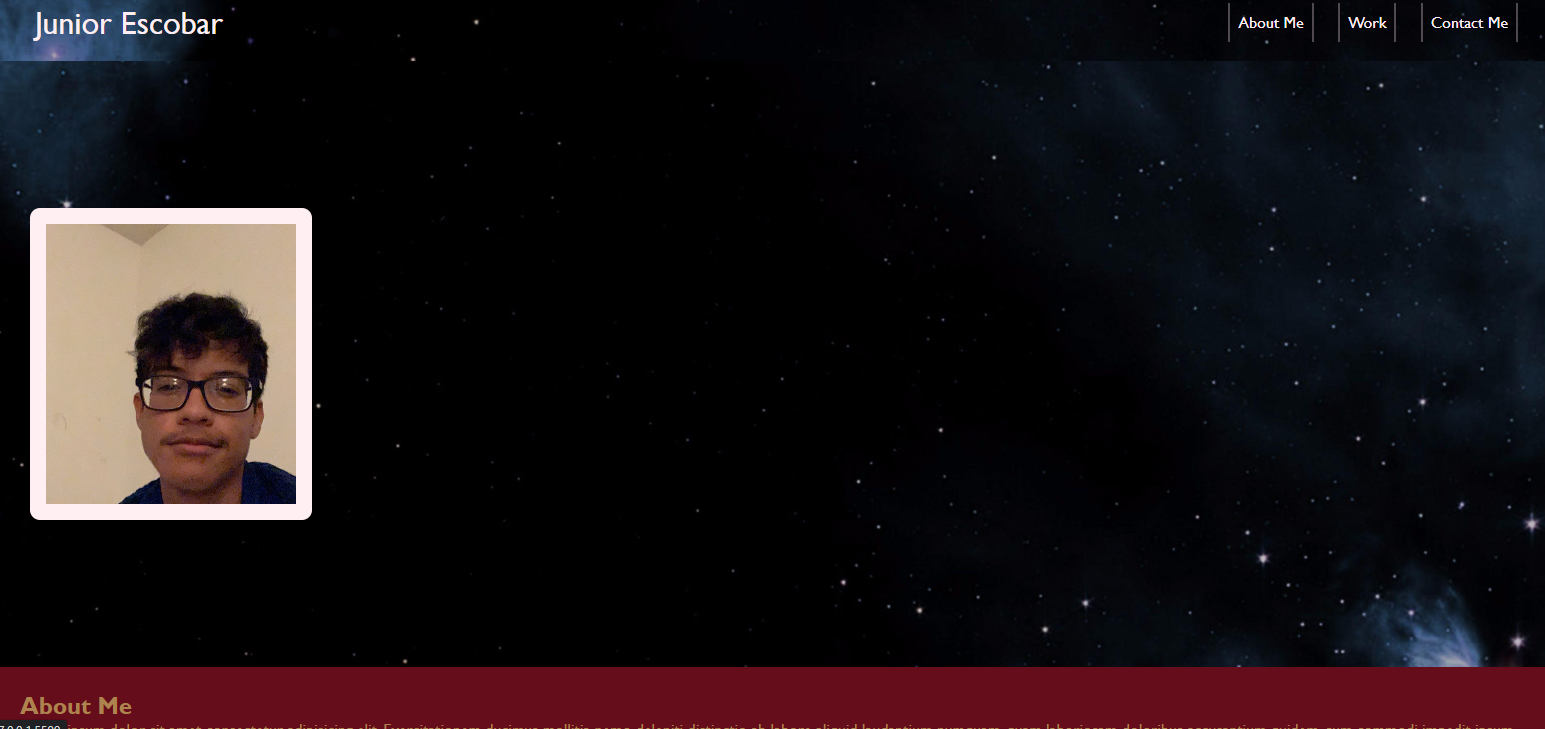
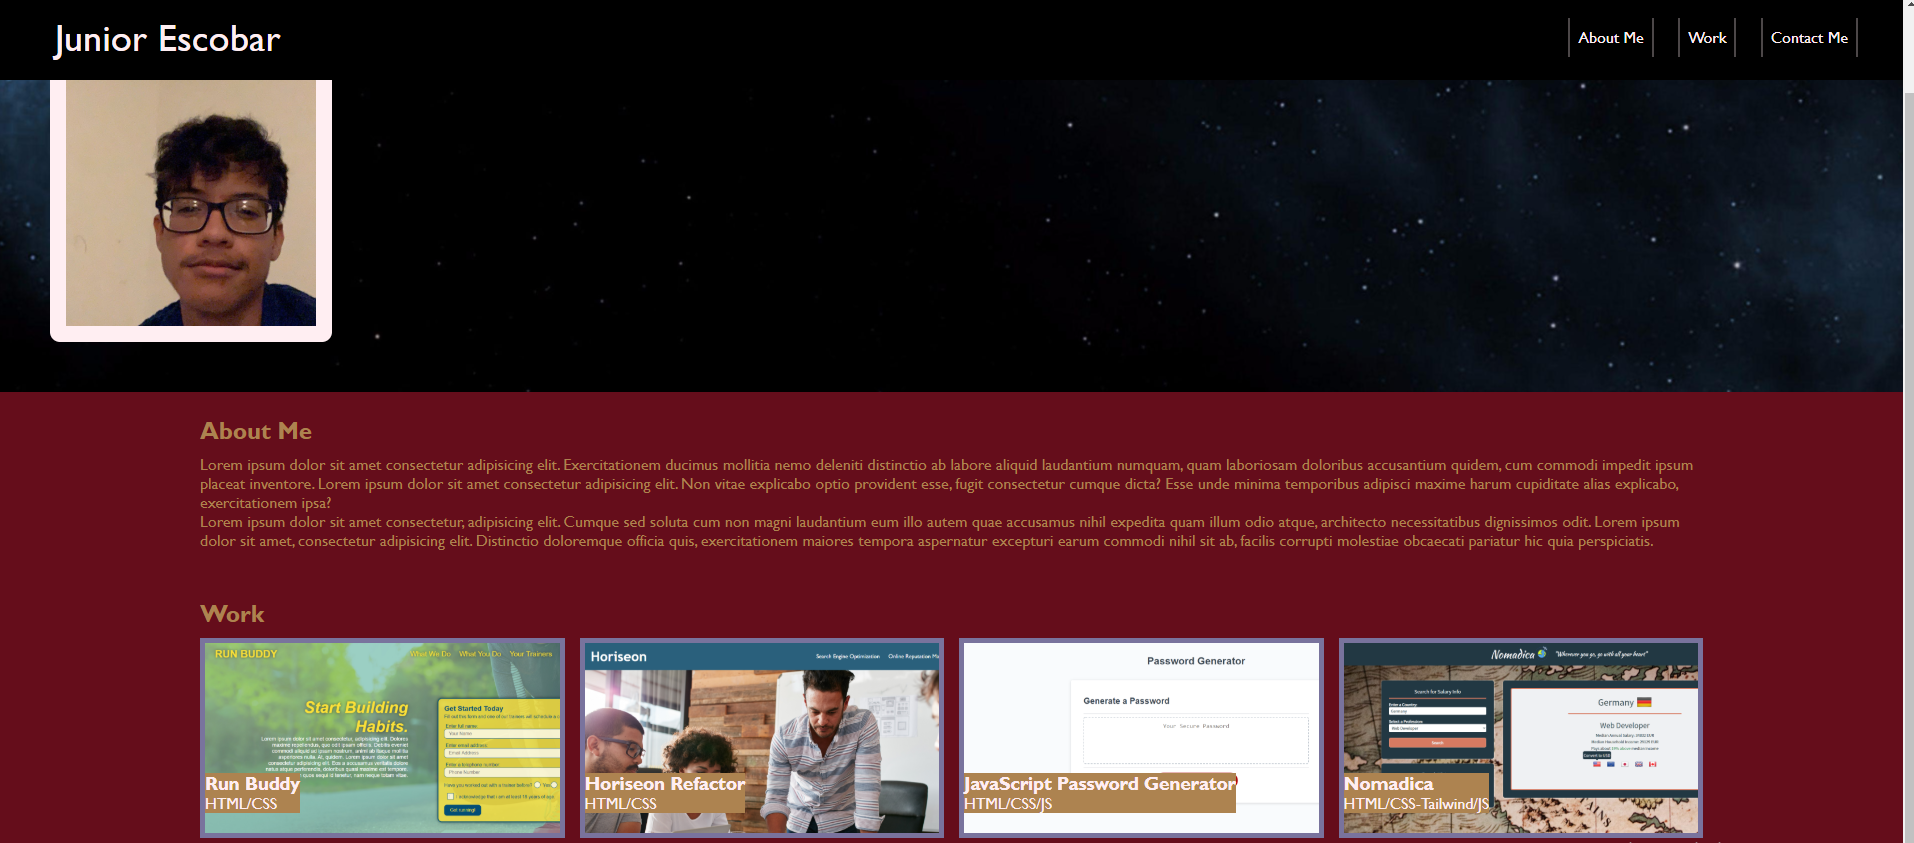
updated the site and added the project 1 link inside

diff --git a/assets/css/style.css b/assets/css/style.css
@@ -18,7 +18,7 @@ header {
     flex-wrap: wrap;
     justify-content: space-between;
     align-items: center;
-    background-image: url("../images/hero-bg.jpg");
+    background-color: var(--black);
     background-size: cover;
     background-attachment: fixed;
     padding: 20px 35px;
@@ -33,6 +33,10 @@ header h1 {
     font-weight: lighter;
     color: var(--light);
     margin: 0;
+}
+
+h2 {
+    margin-bottom: 10px;
 }
 
 nav.select a::before, nav.select a::after {
@@ -69,14 +73,14 @@ header a {
 
 .hero {
     background-image: url("../images/hero-bg.jpg");
-    background-size: cover;
+    background-size: 100vw;
     background-attachment: fixed;
     background-position: 80%;
     display: flex;
     justify-content: flex-start;
+    background-repeat: no-repeat;
     flex-wrap: wrap;
     align-items: center;
-    min-height: 80vh;
     padding: 50px;
 }
 
@@ -97,11 +101,15 @@ body {
 
 .page-section {
     background-color: var(--persian-plum);
-    padding: 25px 40px;
+    padding: 25px 200px;
     display: flex;
     flex-wrap: wrap;
     align-items: stretch;
     justify-content: space-between;
+}
+
+#work, #contact {
+    display: block;
 }
 
 .grid-container {
@@ -109,7 +117,7 @@ body {
     column-gap: 15px;
     row-gap: 15px;
     grid-auto-flow: column;
-    grid-template-columns: repeat(10, 1fr);
+    grid-template-columns: repeat(12, 1fr);
     grid-auto-rows: minmax(200px, 1fr);
 }
 
@@ -119,19 +127,16 @@ body {
     padding: 0 0 20px 0;
     text-decoration: none;
     border: 5px solid var(--soft);
-    grid-column: span 4;
     background-color: var(--black);
     color: var(--light);
     min-height: 200px;
-}
-
-.grid-item:first-child {
-    grid-column: span 8;
-    grid-row: span 2;
+    grid-column: span 3;
+    grid-row: span 1;
 }
 
 .grid-item:hover {
-    background-color: rgba(0, 0, 0, 0.25);
+    transition: .5s;
+    opacity: .8;
 }
 
 .text {
@@ -141,28 +146,112 @@ body {
 .contact address {
     display: flex;
     flex-wrap: wrap;
-    justify-content: space-around;
+    justify-content: space-between;
     align-items: center;
     height: 100%;
 }
 
 .contact address a {
     text-decoration: none;
-    background-image: linear-gradient(270deg, var(--primary) 0%, var(--primary) 100%);
+    background-color: var(--cafe-au-lait);
     font-style: normal;
     font-size: 1rem;
     color: var(--light);
-    display: inline-block;
+    border: 5px solid var(--cafe-au-lait);
+    border-radius: .5rem;
+    padding: 1rem;
 }
 
 .contact address a:hover {
-    background-size: 100% 88%;
+    transition: .5s;
+    background-color: var(--black);
+    border: 5px solid var(--black);
 }
 
 .run-buddy {
     background-image: url("../images/screenshots/run-buddy.PNG");
-  }
+    background-size: 450px;
+    background-repeat: no-repeat;
+}
   
 .horiseon-refactor {
     background-image: url("../images/screenshots/horiseon-nav-with-hero.PNG");
-  }
+    background-size: 450px;
+    background-repeat: no-repeat;
+}
+
+.js-password-generator {
+    background-image: url("../images/screenshots/password-gen-site.PNG");
+    background-size: 450px;
+    background-repeat: no-repeat;
+}
+
+.nomadica {
+    background-image: url("../images/screenshots/nomadica.png");
+    background-size: 450px;
+    background-repeat: no-repeat;
+}
+
+@media screen and (max-width:1024px) {
+    header h1 {
+        font-size: 3.5vw;
+    }
+    .page-section {
+        padding: 25px 100px;
+    }
+    .grid-container {
+        grid-template-columns: repeat(10, 1fr);
+        grid-template-rows: repeat(2, 1fr);
+        grid-auto-rows: minmax(200px, 1fr);
+    }
+    .grid-item {
+        grid-column: span 5;
+        grid-row: span 1;
+    }
+    .hero {
+        background-size: 120vw;
+    }
+}
+
+@media screen and (max-width:768px) {
+    .hero {
+        justify-content: center;
+        background-size: 140vw;
+    }
+    .contact address a {
+        width: 60vw;
+        margin: 1rem;
+    }
+    .contact address {
+        justify-content: center;
+    }
+}
+
+@media screen and (max-width:640px) {
+    header {
+        display: block;
+        text-align: center;
+    }
+    .select {
+        display: flex;
+        justify-content: center;
+    }
+    header h1 {
+        font-size: 6vw;
+        margin-bottom: 1.5rem;
+    }
+    .hero {
+        background-size: 300vw;
+    }
+    .contact address a {
+        width: 60vw;
+    }
+    .grid-container {
+        grid-template-columns: repeat(5, 1fr);
+        grid-template-rows: repeat(4, 1fr);
+    }
+    .page-section {
+        padding: 25px 50px;
+    }
+}
+

diff --git a/index.html b/index.html
@@ -60,6 +60,20 @@
                         <span>HTML/CSS</span>
                     </div>
                 </a>
+
+                <a href="https://junioresc.github.io/js-password-generator/" class="grid-item js-password-generator">
+                    <div class="text">
+                        <h3>JavaScript Password Generator</h3>
+                        <span>HTML/CSS/JS</span>
+                    </div>
+                </a>
+
+                <a href="https://dj-viking.github.io/Nomadica/" class="grid-item nomadica">
+                    <div class="text">
+                        <h3>Nomadica</h3>
+                        <span>HTML/CSS-Tailwind/JS</span>
+                    </div>
+                </a>
             </div>
         </section>
 

diff --git a/README.md b/README.md
@@ -5,6 +5,6 @@ This is my online web portfolio that I am going to present to potential employer
 Not my best work but this will be updated as I learn more.
 
 ## Screenshot:
-
+![Image of portfolio nav and hero](/assets/images/screenshots/portfolio.PNG)
 ## Website:
 https://junioresc.github.io/
